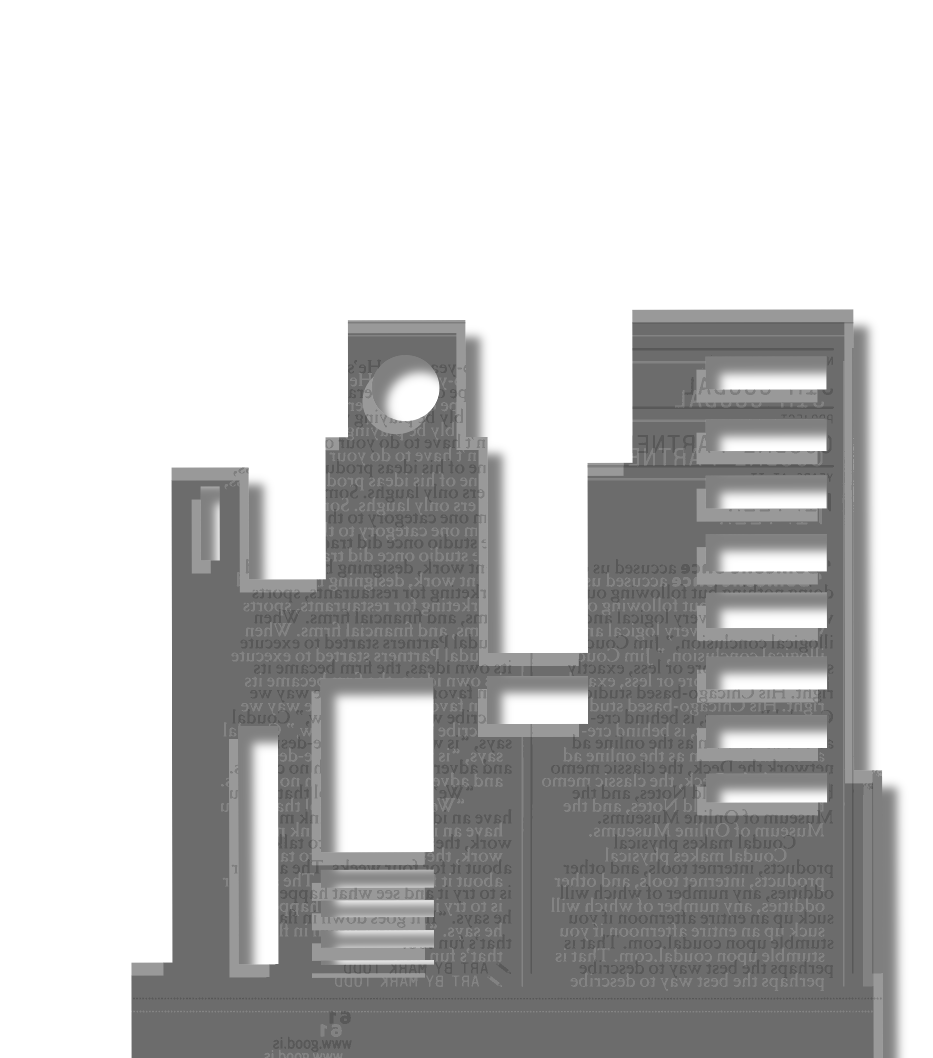
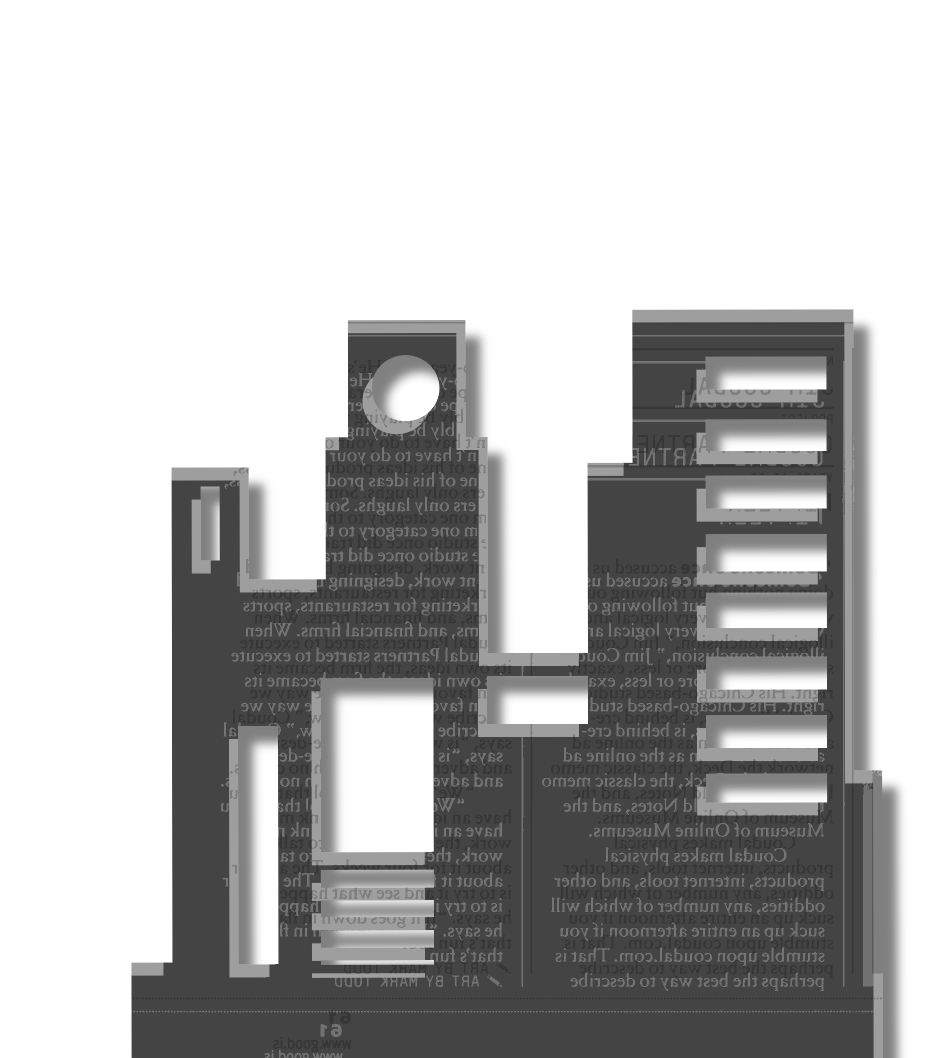
adjusted scolling effects

Changed region(s): [[0.1243, 0.2807, 0.9636, 1.0]]

diff --git a/public/bundle.js b/public/bundle.js
@@ -17653,6 +17653,7 @@ var Build = function (_Component) {
                 'linkedin.com/in/yawenalice'
               ),
               _react2.default.createElement('br', null),
+              _react2.default.createElement('br', null),
               'If you like cats, you might like my instagram:',
               _react2.default.createElement('br', null),
               _react2.default.createElement(
@@ -17664,7 +17665,11 @@ var Build = function (_Component) {
             _react2.default.createElement(
               'div',
               { id: 'build2a' },
-              this.props.children
+              _react2.default.createElement(
+                'div',
+                { id: 'build3' },
+                this.props.children
+              )
             )
           )
         )

diff --git a/public/style.css b/public/style.css
@@ -584,7 +584,7 @@ h6 {  font-size: 1.0rem;   font-family: 'Raleway', sans-serif;}
   background-size: auto 33%;
 }
 #build2a {
-  min-height: 200vh;
+  min-height: 220vh;
   width: 66%;
   display: inline-block;
   vertical-align: bottom;
@@ -594,10 +594,22 @@ h6 {  font-size: 1.0rem;   font-family: 'Raleway', sans-serif;}
   background-position: 90% bottom;
   background-size: auto 37%;
 }
+#build3 {
+  min-height: 200vh;
+  width: 66%;
+  display: inline-block;
+  vertical-align: bottom;
+  box-sizing: border-box;
+  background-image: url('img/build3.png');
+  background-repeat: no-repeat;
+  background-position: 70% bottom;
+  background-size: auto 30%;
+}
 .lower-mid {
+  min-height: 200vh;
   color: white;
   position: absolute;
-  top: 133%;
+  top: 113%;
   left: 35%;
 }
 

diff --git a/app/components/Build.jsx b/app/components/Build.jsx
@@ -28,17 +28,18 @@ class Build extends Component {
             <br/>
             <a href="http://linkedin.com/in/yawenalice">linkedin.com/in/yawenalice</a>
             <br/>
+            <br/>
             If you like cats, you might like my instagram:
               <br/><a href="http://instagram.com/hyphenlowercase">instagram.com/hyphenlowercase</a>
             </p>
 
             <div id="build2a">
 
-
+              <div id="build3">
 
                   {this.props.children}
 
-
+              </div>
             </div>
           </div>
 
